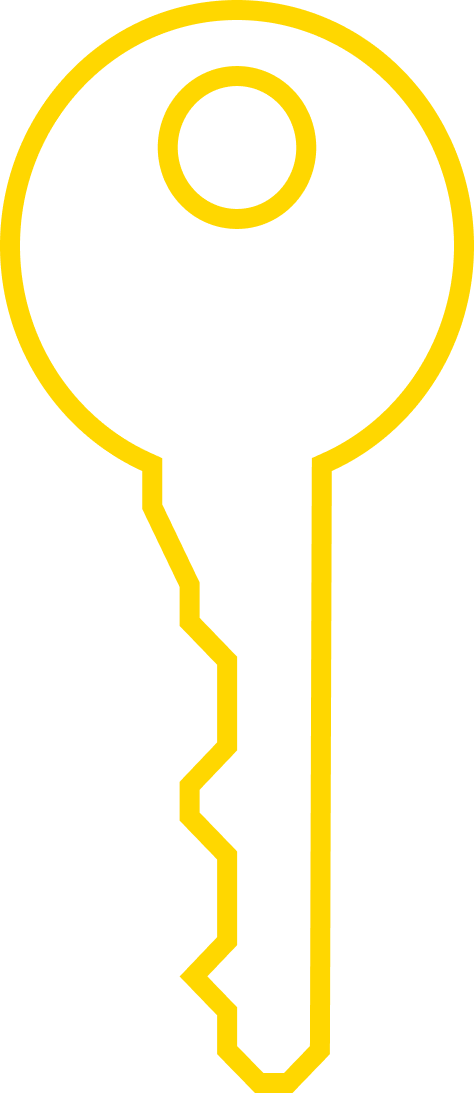
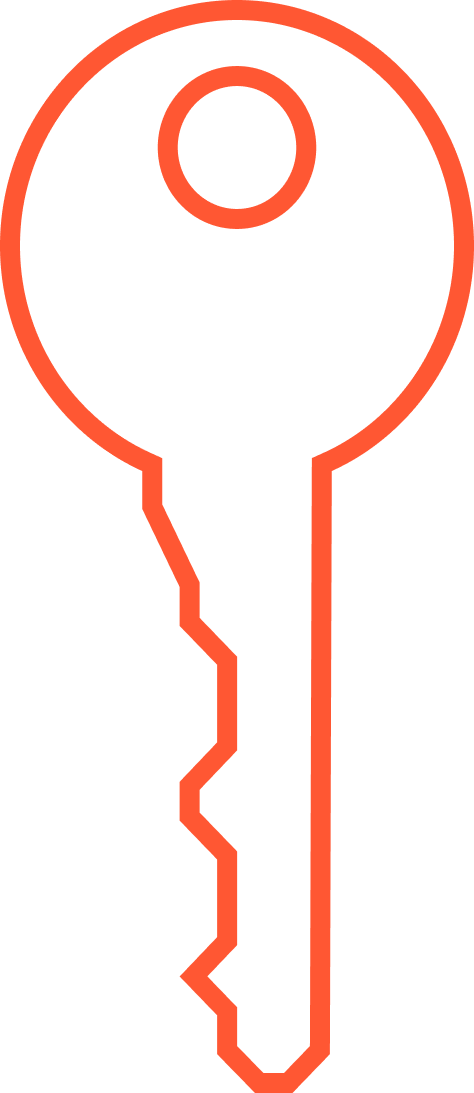
changing the key color

Changed region(s): [[0.0, 0.0, 1.0, 1.0], [0.3249, 0.0622, 0.6793, 0.2177]]

diff --git a/src/create-symmetric-animation.js b/src/create-symmetric-animation.js
@@ -102,6 +102,8 @@ class SymmetricTutorial {
             .style("width", "10%")
 
         document.getElementById("startAnimation").onclick = function () {
+            d3.select("#story_text").html("")
+            d3.select("#warning").html("")
             animation();
         };
 
@@ -143,6 +145,7 @@ class SymmetricTutorial {
                                 .transition()
                                 .text("The TA will encrypt the information using a key that only Matt and her have.")
                                 .style("opacity", 1)
+                                .style("color", "#FF5733")
                                 .duration(4 * time)
                                 .on('end', function () {
                                     // sender document becomes locked document
@@ -154,6 +157,7 @@ class SymmetricTutorial {
                                         .transition()
                                         .text("The information is now encrypted and ready to be sent")
                                         .style("opacity", 1)
+                                        .style("color", "white")
                                         .duration(3 * time)
                                         .on('end', function () {
 
@@ -174,7 +178,7 @@ class SymmetricTutorial {
                                                 .transition()
                                                 .text("Matt receives the encrypted document")
                                                 .style("opacity", 1)
-                                                .duration(2 * time)
+                                                .duration(3 * time)
                                                 .on('end', function () {
 
                                                     // increasing size of decrypt key & changine its src
@@ -190,7 +194,8 @@ class SymmetricTutorial {
                                                         .transition()
                                                         .text("and uses his key to decrypt the information")
                                                         .style("opacity", 1)
-                                                        .duration(2 * time)
+                                                        .style("color", "#FF5733")
+                                                        .duration(3 * time)
 
 
 
@@ -215,7 +220,8 @@ class SymmetricTutorial {
                                                                 .transition()
                                                                 .text("Matt is now happy that he can look at the information")
                                                                 .style("opacity", 1)
-                                                                .duration(2 * time)
+                                                                .style("color", "white")
+                                                                .duration(3 * time)
 
 
                                                                 .on('end', function () {
